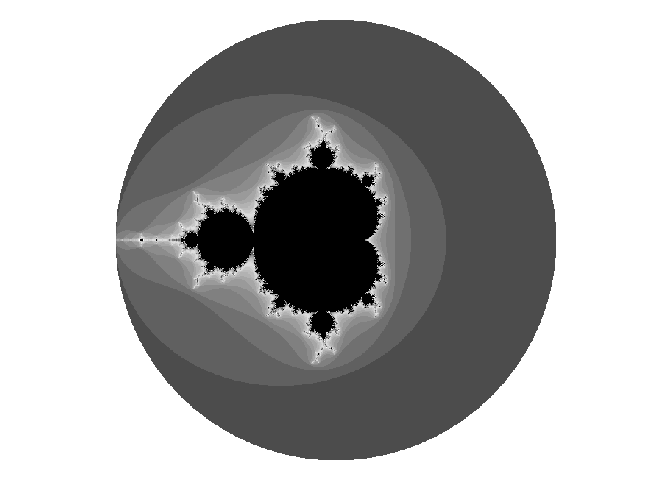
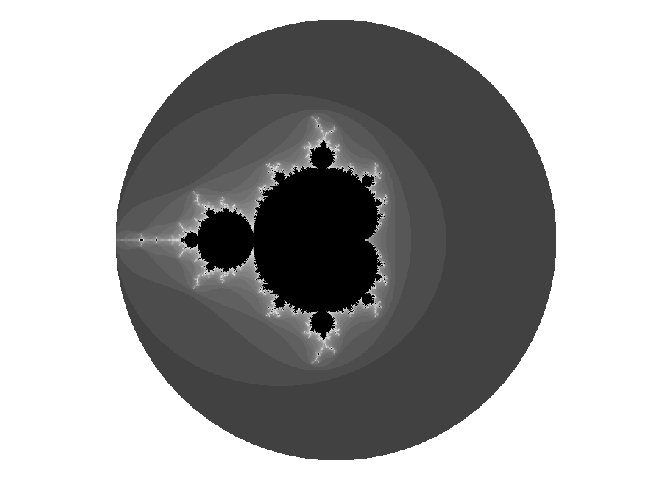
tidy src comments; test transform

Changed region(s): [[0.1562, 0.2188, 0.625, 0.7812]]

diff --git a/src/mandelbrot.c b/src/mandelbrot.c
@@ -63,16 +63,11 @@ void mandelbrot_(double *xcoo, double *ycoo, int *nx,
   return;
 }
 
-
+/* Alt interface to above that generates set data in
+ * a more convenient shape for fast reformatting
+ */
 void mandelbrot_alt(double *xcoo, double *ycoo, int *nx,
   int *ny, int *set, int *iter)
-
-  /* 'xcoo' and 'ycoo' are the x and y coordinates respectively
-  *  of all the points to be evaluated.
-  * 'nx' and 'ny' number of divisions along the x and y axes
-  * 'set' will store the practical output of the function
-  * 'iter' is the maximun number of iterations
-  */
 
 {
   int i, j, k;
@@ -82,10 +77,6 @@ void mandelbrot_alt(double *xcoo, double *ycoo, int *nx,
 
     for(j = 0; j < *ny; j++) {
 
-      /* initialise the complex point to be tested
-      * c[0] (or z[0]) is the real part
-      * c[1] (or z[1]) is the imaginary part
-      */
       c[0] = xcoo[i]; c[1] = ycoo[j];
       z[0] = 0;       z[1] = 0;
 
@@ -102,14 +93,7 @@ void mandelbrot_alt(double *xcoo, double *ycoo, int *nx,
         }
       }
 
-      /* fills the set vector
-      * notice the trick 'i * (*ny) + j' to find
-      * the appropiate position of the output in the
-      * vector set. The R function will take care of
-      * transforming this vector into a suitable matrix
-      * for plotting, etc.
-      */
-      set[j * (*ny) + i] = k;
+      set[j * (*nx) + i] = k;
     }
   }
   return;

diff --git a/README.md b/README.md
@@ -37,7 +37,7 @@ mb <- mandelbrot(xlim = c(-0.8438146, -0.8226294),
                  iterations = 500)
 
 cols <- mandelbrot_palette(RColorBrewer::brewer.pal(11, "Spectral"))
-plot(mb, col = cols)
+plot(mb, col = cols, transform = "inv")
 ```
 
 ![](figs/README-trip-1.png)
